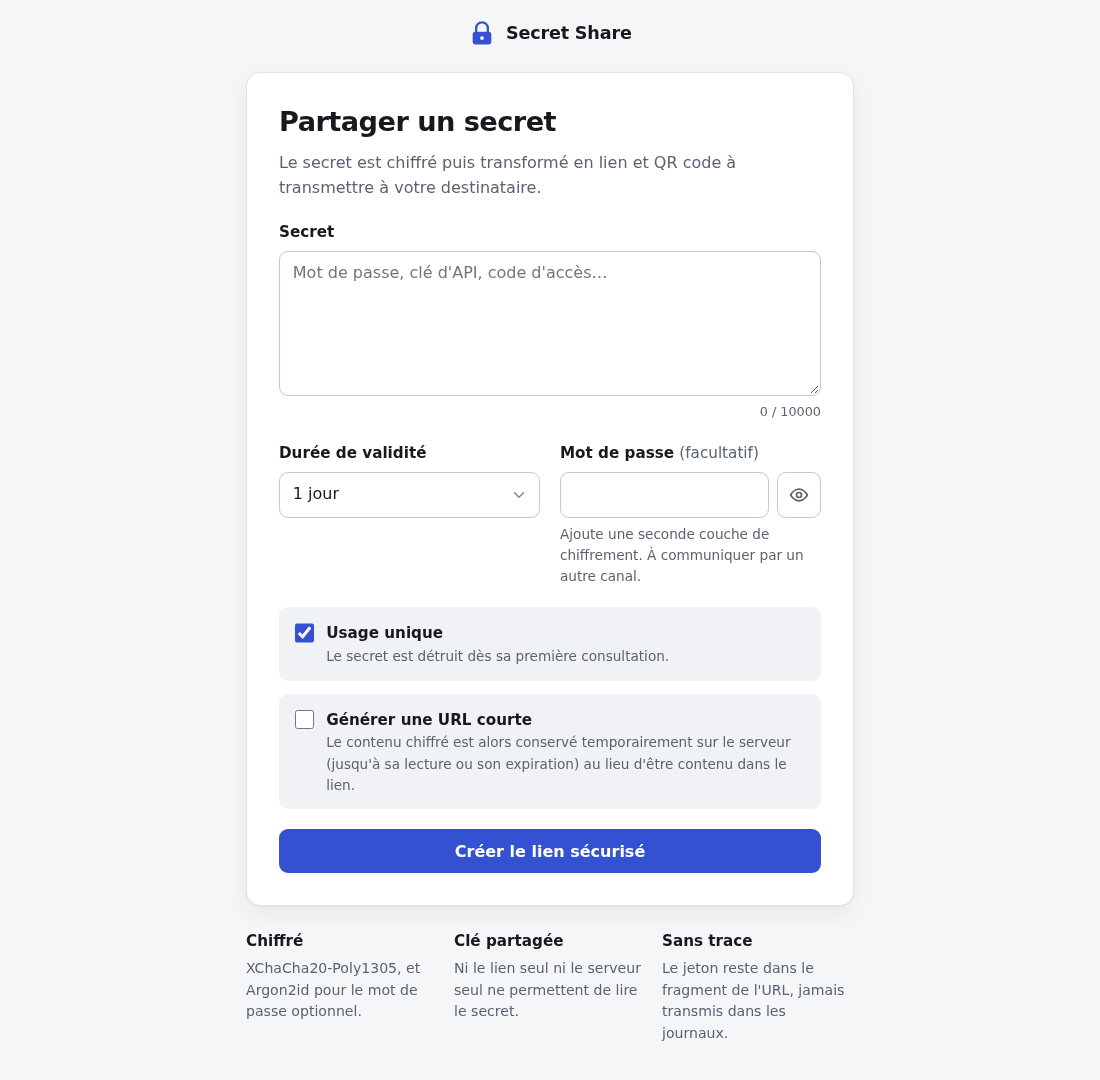
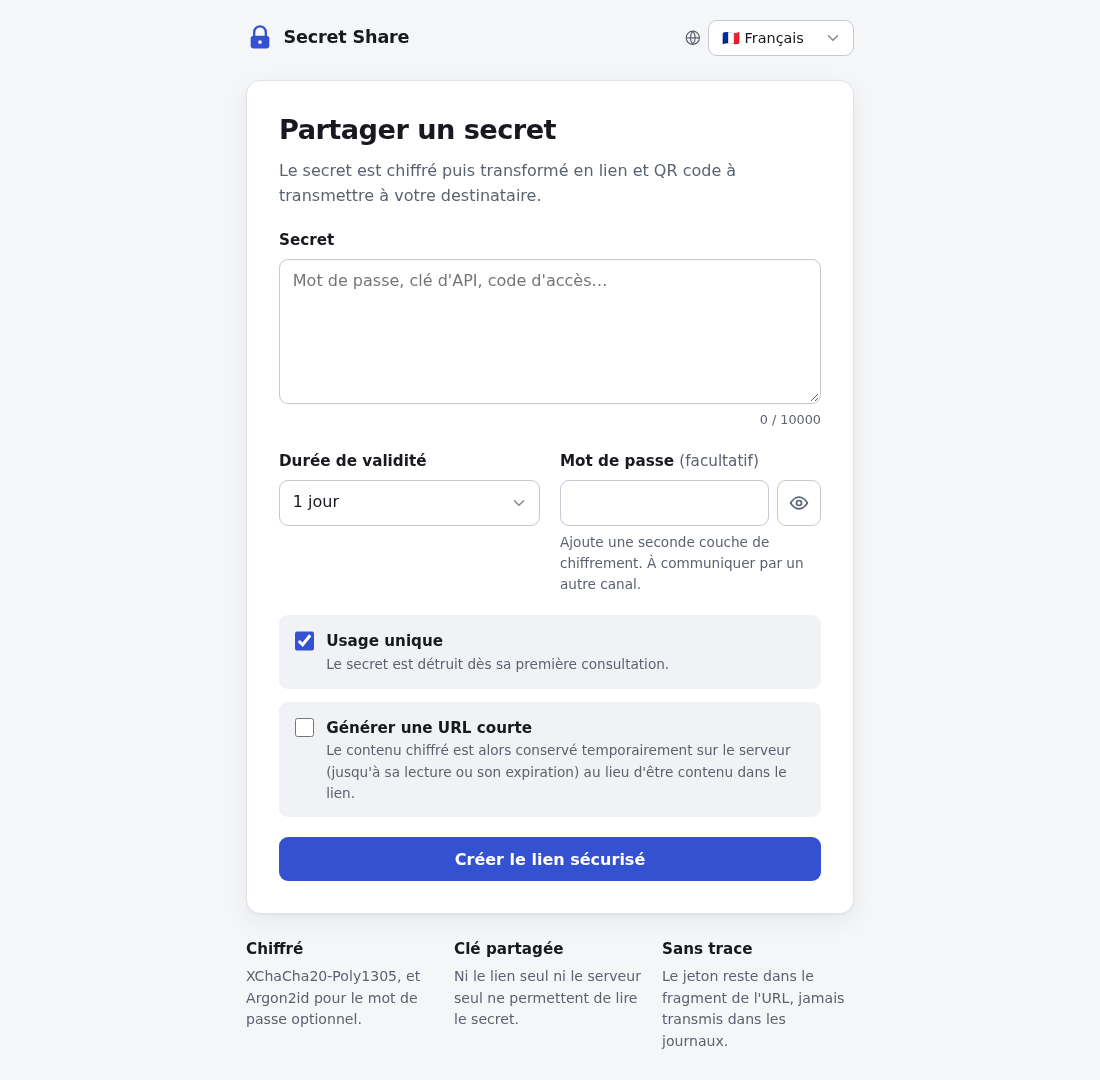
Met à jour le README avec les nouveautés
Protection contre les abus, mise à jour d'une installation, langues
disponibles, variables QOS_*, scripts de bin/, limites connues et
capture d'écran avec le sélecteur de langue.

diff --git a/README.md b/README.md
@@ -10,7 +10,9 @@ Partagez un mot de passe, une clé d'API ou toute information sensible au moyen 
 - **Sans trace** : le jeton voyage dans le fragment de l'URL (`#…`), jamais envoyé
   au serveur, donc absent de tous les journaux HTTP ; aucune IP, date de création
   ou métadonnée n'est conservée
-- Interface sobre, responsive, accessible, thème clair/sombre automatique, en 9 langues
+- **Protection contre les abus** : limitation de débit par visiteur sans stocker d'adresse IP,
+  quotas de stockage, ressources bornées ; déblocage manuel par `./unblock.sh`
+- Interface sobre, responsive, accessible, thème clair/sombre automatique, en **9 langues**
   (dont l'arabe, écrit de droite à gauche) avec sélecteur de langue
 - Image Docker durcie : utilisateur non privilégié, système de fichiers en lecture seule
 
@@ -50,6 +52,19 @@ docker run -d --name secret-share \
 
 Conservez la valeur d'`APP_SECRET` : la changer rend illisibles tous les secrets en cours.
 
+### Mise à jour
+
+```bash
+git pull                      # scripts et docker-compose.yml à jour
+docker compose pull           # nouvelle image (IMAGE dans .env, par ex. ludeus/secret-share:1.2.2)
+docker compose up -d
+```
+
+Le schéma de la base est mis à jour automatiquement au démarrage et les secrets en cours sont
+conservés. Les nouvelles variables de `.env.dist` ont toutes une valeur par défaut. Les
+fichiers statiques étant versionnés par leur date de modification, les navigateurs
+rechargent d'eux-mêmes ceux qui ont changé.
+
 ## Configuration
 
 Toute la configuration se fait par variables d'environnement (fichier `.env` avec Compose).
@@ -71,6 +86,8 @@ Une valeur invalide empêche le conteneur de démarrer, avec un message explicit
 | `RATE_LIMIT_CREATE_PER_HOUR`   | `30`             | Créations par visiteur et par heure (`0` : pas de limite)                |
 | `RATE_LIMIT_READ_PER_MINUTE`   | `30`             | Ouvertures et destructions par visiteur et par minute                    |
 | `TRUSTED_PROXIES`       | plages privées          | Proxys dont l'en-tête `X-Forwarded-For` est pris en compte               |
+| `QOS_CONSOLE_URL`       | *(vide)*                | Console `mod_qos` locale, utilisée par `./unblock.sh` (facultatif)       |
+| `QOS_EVENT`             | `SECRET_SHARE`          | Variable d'évènement comptée par `mod_qos`                               |
 | `DEFAULT_LOCALE`        | `fr`                    | Langue si le navigateur n'en propose aucune disponible (code de `lang/`) |
 | `SOURCE_URL`            | lien GitHub du projet   | Lien « Code source » du pied de page (exigé par l'AGPL)                  |
 | `DATABASE_PATH`         | `/app/data/secret-share.sqlite` | Emplacement de la base SQLite                                    |
@@ -225,6 +242,10 @@ Listen 127.0.0.1:8766
   son lien de destruction.
 - Le lien d'un secret en mode JWT est long ; pour un QR code plus simple à scanner, cochez
   « URL courte ».
+- La limitation de débit s'applique par adresse IP : des visiteurs derrière une même adresse
+  (entreprise, NAT) partagent les mêmes compteurs.
+- Windows n'affiche pas les émojis de drapeaux : le sélecteur montre alors deux lettres
+  (« FR ») devant le nom de chaque langue.
 
 Pour signaler une vulnérabilité, voir [SECURITY.md](SECURITY.md).
 
@@ -238,6 +259,7 @@ composer test        # tests unitaires et fonctionnels (PHPUnit)
 composer cs-check    # standard de codage (PSR-12)
 composer cs-fix      # correction automatique du standard
 composer stan        # analyse statique (PHPStan, niveau max)
+composer translations # vérification des fichiers de langue
 composer check       # tout ce qui précède, comme en CI
 
 # serveur de développement
@@ -253,9 +275,18 @@ docker build --target test -t secret-share:test . && docker run --rm secret-shar
 
 ### Traductions
 
-La langue est choisie par le sélecteur de l'interface (mémorisé dans un cookie), sinon d'après
-les préférences du navigateur, sinon `DEFAULT_LOCALE`. Chaque fichier `lang/<code>.php` est une
-langue : en ajouter une se résume à déposer un fichier, voir [CONTRIBUTING.md](CONTRIBUTING.md).
+L'interface est disponible en 🇬🇧 anglais, 🇨🇳 chinois (simplifié), 🇮🇳 hindi, 🇪🇸 espagnol,
+🇫🇷 français, 🇸🇦 arabe, 🇵🇹 portugais, 🇷🇺 russe et 🇩🇪 allemand. Seuls le français et
+l'anglais ont été relus par des locuteurs natifs : les corrections sont les bienvenues.
+
+La langue est choisie par le sélecteur de l'interface (mémorisé un an dans un cookie), sinon
+d'après les préférences du navigateur, sinon `DEFAULT_LOCALE`. Le sélecteur n'est proposé que
+sur les pages qui peuvent être rechargées sans perte (pas sur l'affichage d'un lien créé ou
+d'un secret révélé) ; sur la page d'ouverture d'un secret, il conserve le jeton du lien.
+
+Chaque fichier `lang/<code>.php` est une langue, détectée automatiquement ; les textes non
+traduits s'affichent en anglais. En ajouter une se résume à déposer un fichier, voir
+[CONTRIBUTING.md](CONTRIBUTING.md).
 
 ```bash
 composer translations    # état de toutes les langues (textes manquants, paramètres)
@@ -274,8 +305,14 @@ src/
 └── View/                gabarits, traductions, QR codes
 templates/               gabarits PHP (échappement systématique)
 lang/                    traductions, une langue par fichier
-public/                  point d'entrée et ressources statiques
+public/                  point d'entrée et ressources statiques (versionnées par date de modification)
+bin/
+├── install              vérifie la configuration et initialise la base (démarrage du conteneur)
+├── unblock              gestion des compteurs de limitation de débit (appelé par ./unblock.sh)
+└── check-translations   vérification des fichiers de langue
 docker/                  configuration Apache, PHP et point d'entrée du conteneur
+install.sh               création de .env avec une clé APP_SECRET aléatoire
+unblock.sh               déblocage d'adresses IP (root ou groupe docker)
 ```
 
 ### Publication

diff --git a/CHANGELOG.md b/CHANGELOG.md
@@ -11,6 +11,11 @@ respecte le [versionnage sémantique](https://semver.org/lang/fr/).
 - Corrections signalées par l'analyse de PhpStorm : imports explicites, annotations `@throws`
   et types des gabarits.
 
+### Documentation
+
+- README à jour : protection contre les abus, mise à jour d'une installation, langues
+  disponibles, variables `QOS_*`, scripts de `bin/`, limites connues, capture d'écran.
+
 ## [1.2.1] - 2026-10-17
 
 ### Modifications
